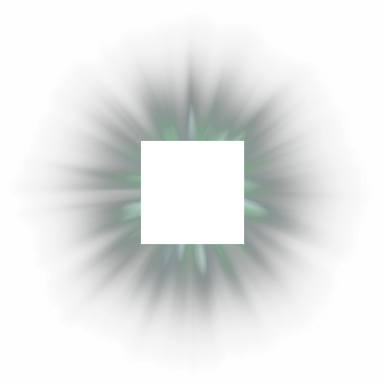
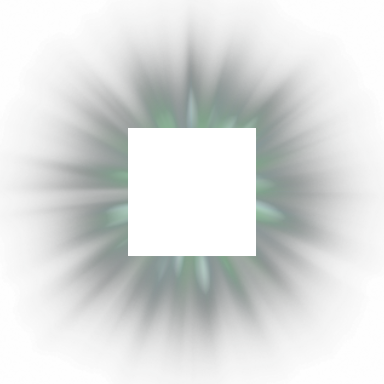
Highlight cell

diff --git a/src/components/dungeon/tile-shelf-container.js b/src/components/dungeon/tile-shelf-container.js
@@ -6,6 +6,8 @@ window.TileShelfContainer = (function() {
   let $rightTrim;
   let $center;
 
+  let $tileHighlight;
+
   let $tileState;
 
   function init() {
@@ -18,6 +20,8 @@ window.TileShelfContainer = (function() {
   //       Might even render something out in Blender. Still thinking about
   //       the overall look of things.
   async function create(application) {
+    $tileHighlight = await TileHighlight();
+
     $leftTrim = new PIXI.Graphics();
     $leftTrim.rect(0,20,20,60);
     $leftTrim.stroke({ color:'rgb(50,58,50)' });
@@ -43,11 +47,20 @@ window.TileShelfContainer = (function() {
     $dragArea.y = 0;
     $dragArea.width = application.screen.width
     $dragArea.height = application.screen.height
+    $dragArea.addChild($tileHighlight.getElement());
 
     application.stage.addChild($shelf);
     application.stage.addChild($dragArea);
 
     positionShelf();
+
+    setTimeout(()=> {
+      showHighlight(1,-1);
+    },100);
+  }
+
+  function showHighlight(x,y) {
+    $tileHighlight.showHighlight(x,y);
   }
 
   function handleResize() {
@@ -65,6 +78,7 @@ window.TileShelfContainer = (function() {
       tileContainer.on('mouseup',DragonDrop.stopDrag);
       tileContainer.on('mousedown',event => {
         DragonDrop.startDrag({ event, tile, tileContainer });
+        PlacementManager.startDrag();
       });
 
       $tileState[tile.getID()] = { tile, tileContainer };
@@ -96,6 +110,7 @@ window.TileShelfContainer = (function() {
     create,
     refresh,
     positionTiles,
+    showHighlight,
   })
 
 })();

diff --git a/src/components/effects/tile-highlight.js b/src/components/effects/tile-highlight.js
@@ -1,0 +1,53 @@
+global.TileHighlight = async function() {
+
+  let $shrink = 0;
+
+  const $mask = new PIXI.Graphics();
+
+  const $sprite = new PIXI.Sprite(await PIXI.Assets.load('glow-effect'));
+  $sprite.mask = $mask;
+
+  const $container = new PIXI.Container();
+  $container.addChild($mask);
+  $container.addChild($sprite);
+  $container.renderable = false;
+
+  function getElement() { return $container; }
+
+  function showHighlight(x,y) {
+    $container.renderable = true;
+    positionHighlight(x,y);
+  }
+
+  function positionHighlight(x,y) {
+    const tileContainer = DungeonView.getTileContainerAt(x,y);
+    if (tileContainer == null) {
+      return;
+    }
+    const position = tileContainer.getGlobalPosition();
+    const TS = _tileSize * DungeonViewport.getScale();
+    const size =  TS*3;
+
+    $mask.clear();
+    $mask.beginFill('rgb(0,255,0)');
+    $mask.drawRect(0, 0, size, size);
+    $mask.endFill();
+    $mask.drawRect(TS,TS,TS,TS);
+    $mask.cut();
+
+    $sprite.width = size - $shrink;
+    $sprite.height = size - $shrink;
+    $sprite.x = $shrink/2;
+    $sprite.y = $shrink/2;
+    $sprite.alpha = 1;
+
+    $container.renderable = true;
+    $container.x = position.x - TS;
+    $container.y = position.y - TS;
+  }
+
+  return Object.freeze({
+    getElement,
+    showHighlight,
+  });
+}

diff --git a/src/components/interaction/dragon-drop.js b/src/components/interaction/dragon-drop.js
@@ -7,25 +7,19 @@ window.DragonDrop = (function() {
     window.addEventListener('mouseout',stopDrag);
   }
 
-  function isDragging() {
-    return $dragContext != null;
-  }
+  function isDragging() { return $dragContext != null; }
+  function getContext() { return { ...$dragContext }; }
 
   function startDrag(context) {
-    const {event, tile, tileContainer} = context;
-
-
-    tileContainer.cursor = 'grabbing';
-
-    const offset = {
-      x: event.global.x - tileContainer.x,
-      y: event.global.y - tileContainer.y,
-    }
+    context.tileContainer.cursor = 'grabbing';
 
     $dragContext = {
-      offset,
-      tile,
-      tileContainer,
+      tile: context.tile,
+      tileContainer: context.tileContainer,
+      offset: {
+        x: context.event.global.x - context.tileContainer.x,
+        y: context.event.global.y - context.tileContainer.y,
+      },
     }
   }
 
@@ -47,6 +41,7 @@ window.DragonDrop = (function() {
   return Object.freeze({
     init,
     isDragging,
+    getContext,
     startDrag,
     stopDrag,
     onMove,

diff --git a/src/components/interaction/placement-manager.js b/src/components/interaction/placement-manager.js
@@ -1,0 +1,31 @@
+global.PlacementManager = (function () {
+
+  let $placementRules;
+  let $edgeStatus;
+  let $placementStatus;
+
+  function startDrag() {
+    const context = DragonDrop.getContext();
+    const tile = context.tile;
+
+    $placementRules = tile.getPlacementRules();
+    $edgeStatus = null;
+
+    if (isPlaceOnOrigin()) {
+      highlightOrigin();
+    }
+  }
+
+  function isPlaceOnOrigin() {
+    return ($placementRules||[]).includes(_placeOnOrigin);
+  }
+  
+  function highlightOrigin() {
+    
+  }
+
+  return Object.freeze({
+    startDrag,
+  });
+
+})();

diff --git a/src/components/dungeon/dungeon-view.js b/src/components/dungeon/dungeon-view.js
@@ -64,6 +64,12 @@ global.DungeonView = (function() {
     }
   }
 
+  function getTileContainerAt(x,y) {
+    const coordinates = Coordinates.fromGlobal(x,y);
+    const chunk = $chunkContainers[coordinates.chunkID];
+    return chunk ? chunk.getCellContainer(coordinates.ci) : null;
+  }
+
   return Object.freeze({
     init,
     open,
@@ -71,6 +77,7 @@ global.DungeonView = (function() {
     resize,
     getChunkExtent,
     getDimensions,
+    getTileContainerAt,
   });
 
 })();

diff --git a/src/components/dungeon/chunk-container.js b/src/components/dungeon/chunk-container.js
@@ -44,6 +44,10 @@ global.ChunkContainer = function(chunkID, chunk) {
     });
   }
 
+  function getCellContainer(index) {
+    return $cellContainers[index];
+  }
+
   function buildCellContainers(assets) {
     let x = 0;
     let y = 0;
@@ -71,5 +75,6 @@ global.ChunkContainer = function(chunkID, chunk) {
     chunkID: $chunkID,
     chunk: $chunk,
     container: $container,
+    getCellContainer: getCellContainer,
   });
 }

diff --git a/src/models/coordinates.js b/src/models/coordinates.js
@@ -42,7 +42,7 @@ global.Coordinates = (function() {
       gy: (cy * size) + Math.floor(ci / size),
       cx: cx,
       cy: cy,
-      ci: cy,
+      ci: ci,
     }
   }
 

diff --git a/src/components/dungeon/dungeon-viewport.js b/src/components/dungeon/dungeon-viewport.js
@@ -284,6 +284,7 @@ global.DungeonViewport = (function() {
     create,
     addChild,
     updateLimits,
+    getScale,
   });
 
 })();
